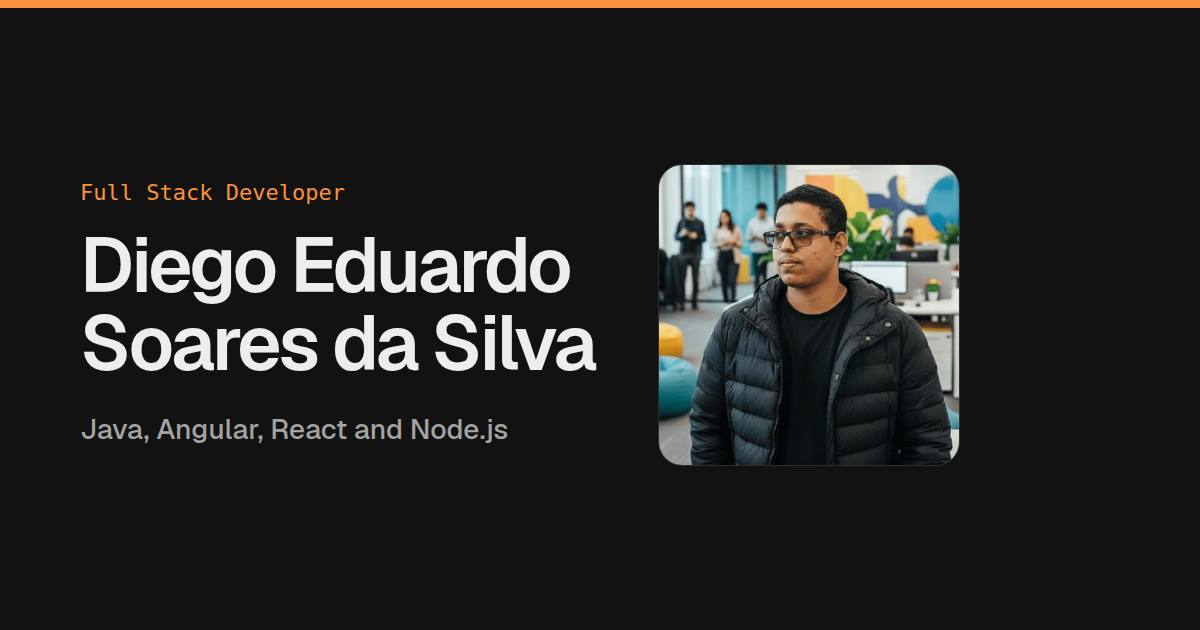
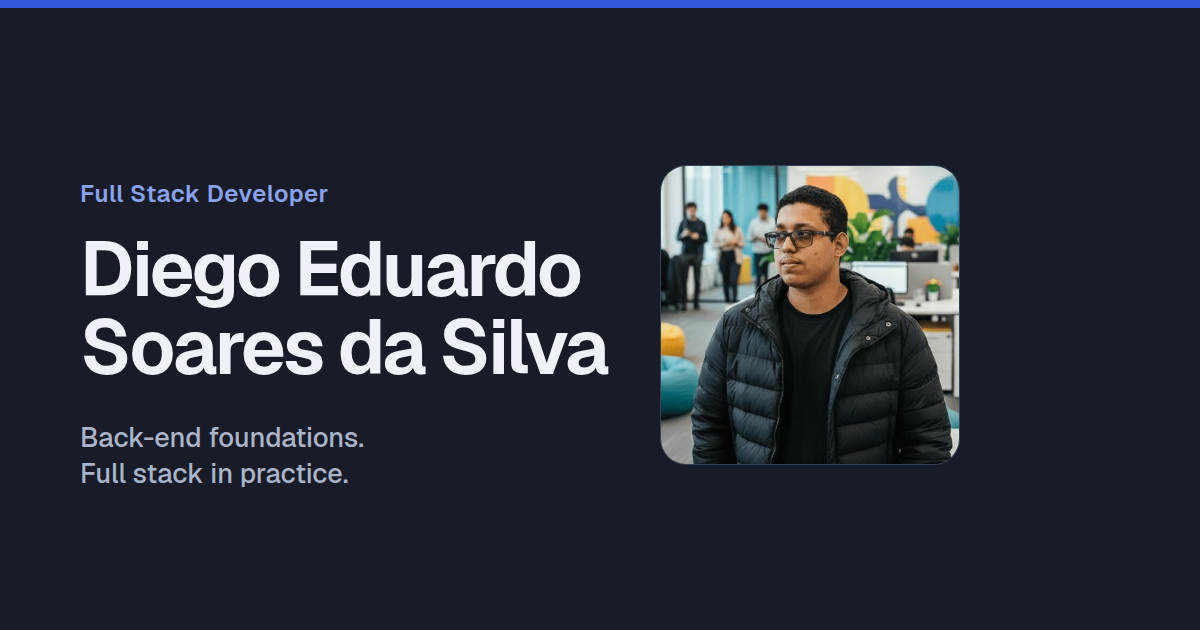
fix: atualiza imagem de compartilhamento e ícone

diff --git a/vite.config.ts b/vite.config.ts
@@ -38,7 +38,7 @@ function seoFiles(): Plugin {
       );
       emit(
         "404.html",
-        `<!doctype html><html lang="pt-BR"><head><meta charset="utf-8"><meta name="viewport" content="width=device-width, initial-scale=1"><meta name="robots" content="noindex"><title>404 | Diego Eduardo</title><style>body{font:16px/1.6 system-ui,sans-serif;display:grid;place-content:center;min-height:100vh;margin:0;padding:1.5rem;text-align:center}a{color:#c2410c}</style></head><body><h1>404</h1><p>Página não encontrada. / Page not found. / Página no encontrada.</p><p><a href="${SITE_BASE}">${home}</a></p></body></html>`,
+        `<!doctype html><html lang="pt-BR"><head><meta charset="utf-8"><meta name="viewport" content="width=device-width, initial-scale=1"><meta name="robots" content="noindex"><title>404 | Diego Eduardo</title><style>body{font:16px/1.6 system-ui,sans-serif;display:grid;place-content:center;min-height:100vh;margin:0;padding:1.5rem;text-align:center}a{color:#2948b8}</style></head><body><h1>404</h1><p>Página não encontrada. / Page not found. / Página no encontrada.</p><p><a href="${SITE_BASE}">${home}</a></p></body></html>`,
       );
     },
   };
